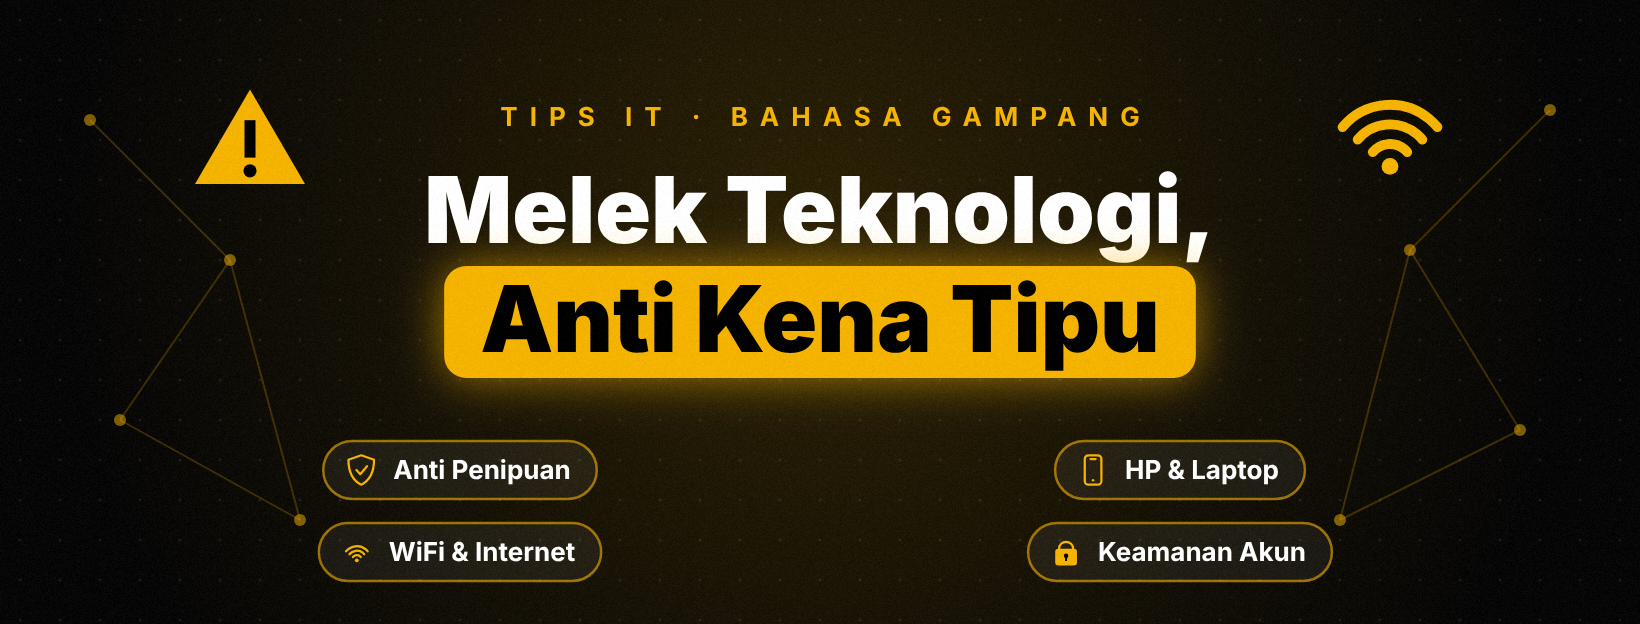
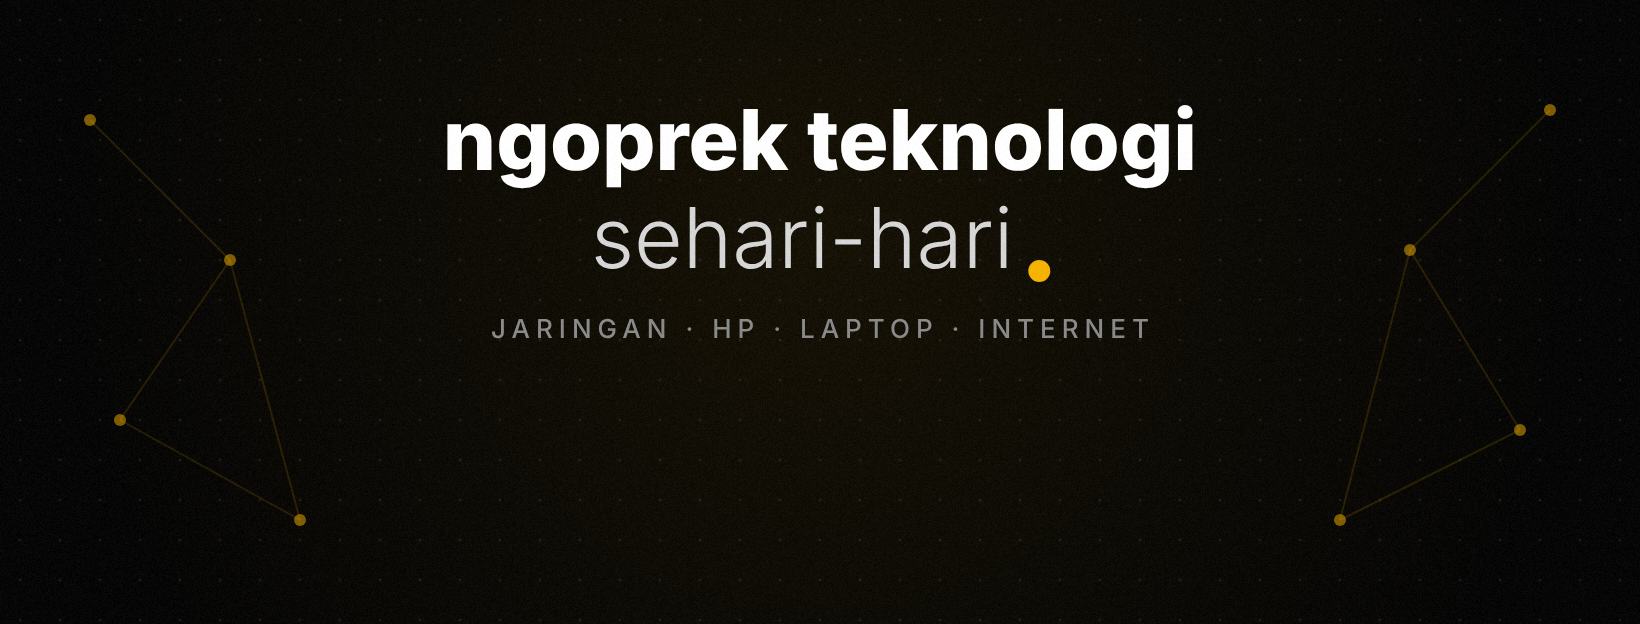
Simplify Reyo Bian cover: casual one-liner
Claude-Session: https://claude.ai/code/session_01BesZVfCjZxHXi8P25gWGxP

diff --git a/reyobian/profil/profil.html b/reyobian/profil/profil.html
@@ -71,29 +71,24 @@ function chip(c, text, x, y, kind) {
 function cover() {
   const c = document.getElementById('cover').getContext('2d'), W = 1640, H = 624, cx = W / 2;
   c.fillStyle = '#060606'; c.fillRect(0, 0, W, H);
-  const g = c.createRadialGradient(cx, H * .38, 0, cx, H * .38, 760); g.addColorStop(0, 'rgba(245,179,1,.16)'); g.addColorStop(1, 'rgba(245,179,1,0)');
+  const g = c.createRadialGradient(cx, H * .38, 0, cx, H * .38, 760); g.addColorStop(0, 'rgba(245,179,1,.07)'); g.addColorStop(1, 'rgba(245,179,1,0)');
   c.fillStyle = g; c.fillRect(0, 0, W, H); dots(c, W, H, .08);
   // network lines decoration on the sides
-  c.strokeStyle = 'rgba(245,179,1,.22)'; c.lineWidth = 2;
+  c.strokeStyle = 'rgba(245,179,1,.14)'; c.lineWidth = 2;
   const nodes = [[90, 120], [230, 260], [120, 420], [300, 520], [1550, 110], [1410, 250], [1520, 430], [1340, 520]];
   [[0, 1], [1, 2], [2, 3], [1, 3], [4, 5], [5, 6], [6, 7], [5, 7]].forEach(([a, b]) => { c.beginPath(); c.moveTo(...nodes[a]); c.lineTo(...nodes[b]); c.stroke(); });
   nodes.forEach(([x, y]) => { c.fillStyle = 'rgba(245,179,1,.5)'; c.beginPath(); c.arc(x, y, 6, 0, 7); c.fill(); });
 
+  // simple & calm: one casual line, no slogans
   c.textAlign = 'center'; c.textBaseline = 'middle';
-  c.font = `700 26px ${FONT}`; c.letterSpacing = '12px'; c.fillStyle = GOLD;
-  c.fillText('TIPS IT · BAHASA GAMPANG', cx + 6, 118); c.letterSpacing = '0px';
-  c.font = `900 92px ${FONT}`; c.fillStyle = '#fff'; c.fillText('Melek Teknologi,', cx, 215);
-  // gold pill
-  c.font = `900 92px ${FONT}`; const tw = c.measureText('Anti Kena Tipu').width;
-  c.save(); c.shadowColor = GLOW; c.shadowBlur = 45; c.fillStyle = GOLD; c.beginPath(); c.roundRect(cx - tw / 2 - 36, 266, tw + 72, 112, 22); c.fill(); c.restore();
-  c.fillStyle = '#000'; c.fillText('Anti Kena Tipu', cx, 324);
-  // side icons (visible on desktop, safe if cropped on mobile)
-  icon(c, 'warn', 250, 140, 1.1); icon(c, 'wifi', 1390, 130, 1.4);
-  // chips: left & right of the profile-photo zone (bottom centre stays empty)
-  chip(c, 'Anti Penipuan', 460, 470, 'shield');
-  chip(c, 'WiFi & Internet', 460, 552, 'wifi');
-  chip(c, 'HP & Laptop', 1180, 470, 'phone');
-  chip(c, 'Keamanan Akun', 1180, 552, 'lock');
+  c.font = `800 84px ${FONT}`; c.fillStyle = '#fff';
+  const a = 'ngoprek teknologi', b = 'sehari-hari';
+  c.fillText(a, cx, 145);
+  c.font = `300 84px ${FONT}`; c.fillStyle = '#d6d6d6'; c.fillText(b, cx - 18, 243);
+  c.font = `300 84px ${FONT}`; const bw = c.measureText(b).width;
+  c.fillStyle = GOLD; c.beginPath(); c.arc(cx - 18 + bw / 2 + 26, 271, 11, 0, 7); c.fill();
+  c.font = `500 26px ${FONT}`; c.letterSpacing = '6px'; c.fillStyle = '#8a8a8a';
+  c.fillText('JARINGAN · HP · LAPTOP · INTERNET', cx + 3, 330); c.letterSpacing = '0px';
   grain(c, W, H, 10);
 }
 

diff --git a/reyobian/README.md b/reyobian/README.md
@@ -32,6 +32,6 @@ VO: `reyobian/video1/vo/script.txt` → seg0..6.wav → `vo/build_vo.sh`.
 
 ## Foto profil & sampul
 - `profil/foto-profil.png` (1080×1080, stiker kartun dari `profil/foto-asli.jpg`).
-- `profil/sampul.png` (1640×624): "Melek Teknologi, Anti Kena Tipu". Teks utama di tengah atas, chip di kiri/kanan
-  supaya tidak ketutup foto profil di HP.
+- `profil/sampul.png` (1640×624): "ngoprek teknologi sehari-hari" (simpel, tanpa slogan). Teks di tengah atas
+  supaya tidak ketutup foto profil & ikon menu di HP.
 - Render ulang: `node reyobian/profil/render.js` (sumber gambar kartun: `profil/var-a.png`).
